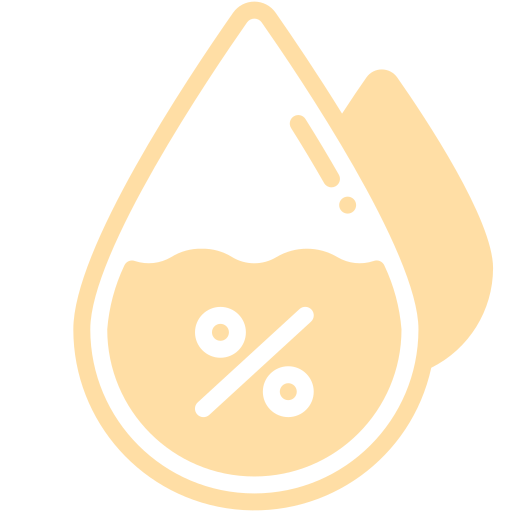
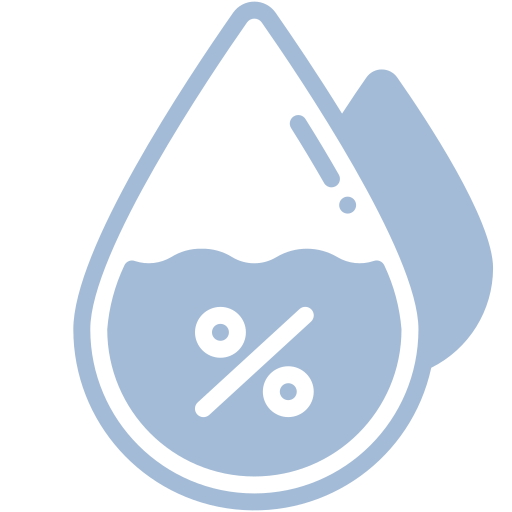
add light

diff --git a/src/App.js b/src/App.js
@@ -3,28 +3,32 @@ import './App.css';
 import { CartesianAxis, CartesianGrid, Legend, Line, LineChart, XAxis, YAxis, Tooltip, BarChart, Bar, ResponsiveContainer, ComposedChart, Area} from 'recharts';
 //import { Tooltip } from 'chart.js';
 import "../node_modules/bootstrap/dist/css/bootstrap.min.css";
+import DarkMode from "./DarkMode"
 
 class App extends React.Component {
 	
 	// Constructor
 	constructor(props) {
 		super(props);
-		this.state = {
+		this.state = { 
 			items: [],
 			DataisLoaded: false
 		};
 	}
-	
 	componentDidMount() {
-		fetch("https://pi-backend-bt5mbx1ej-conmou.vercel.app/min")
-		// fetch("http://localhost:5001/min")
-			.then((res) => res.json())
-			.then((json) => {
+		// fetch("https://pi-backend-bt5mbx1ej-conmou.vercel.app/min")
+		fetch("http://localhost:5001/min")
+			.then(res => res.json())
+			.then(json => {
 				this.setState({
 					items: json,
 					DataisLoaded: true
 				});
 			})
+			.then(e => {
+				console.log("error", e)
+			})
+			console.log(this.state)
 	}
 	
 	render() {
@@ -50,6 +54,7 @@ class App extends React.Component {
 
         return [
             <div class="container" className="App">
+				<DarkMode />
 				<div  className='showbg'>
 					<div class="row" className="content">
 						<h4>T&H</h4>
@@ -60,8 +65,9 @@ class App extends React.Component {
 							<div >
 								{/* <img src='image/heat.png'/> */}
 								<p className='Ttitle'>Temperature</p>
-								<div class='d-flex justify-content-between'>
-									<img src={require('./image/heat.png')} width="140" height="140"/>
+								<div class='d-flex justify-content-around'>
+									{/* <img src={require('./image/heat.png')} width="140" height="140"/> */}
+									<div id='Timg'></div>
 									<p className='Ttext'>{items[items.length-1].temp}</p>
 									<p className='Tunit'>°C</p>
 								</div>
@@ -69,24 +75,26 @@ class App extends React.Component {
 							<hr className="hr"/>
 							<div>
 								<p className='Htitle'>Humidity</p>
-								<div class='d-flex justify-content-between'>
-								<img src={require('./image/humidity.png')} width="140" height="140" />
+								<div class='d-flex justify-content-around'>
+									<div id='Himg'></div>
+									{/* <img src={require('./image/humidity.png')} width="140" height="140" /> */}
 									<p className='Htext'>{items[items.length-1].hunidity}</p>
 									<p className='Hunit'>％</p>
 								</div>
 							</div>
 						</div>
 						<div class="col-md-8">
-							<ResponsiveContainer width="100%" height="100%" >
-								<ComposedChart  data={items}>
-									<CartesianGrid stroke="#FFDEA5" strokeDasharray="5 5"/>
-									<XAxis dataKey="time" stroke='#FFDEA5' strokeWidth={5}/>
-									<YAxis unit='°C' yAxisId="left-axis" dataKey='temp' domain={[0, 50]} stroke='#FFDEA5' strokeWidth={5} allowDataOverflow/>
-									<YAxis unit='％' yAxisId="right-axis" dataKey='hunidity' domain={[0, 100]} orientation='right' stroke='#FFDEA5' strokeWidth={5}/>
+							<ResponsiveContainer width="100%" height="100%">
+								<ComposedChart  data={items} >
+									<CartesianGrid id='chart' strokeDasharray="5 5" strokeWidth={2}/>
+									<XAxis id='chartX' dataKey="time" />
+									<YAxis id='chartYt' unit='°C' yAxisId="left-axis" dataKey='temp' domain={[0, 50]} />
+									<YAxis id='chartYh' unit='％' yAxisId="right-axis" dataKey='hunidity' domain={[0, 100]} orientation='right'/>
 									<Tooltip separator='=' />
 									<Legend />
-									<Bar yAxisId="left-axis" dataKey="temp" barSize={20} fill="#91B493" />
-									<Line yAxisId="right-axis" type="monotone" dataKey="hunidity" stroke="#FFCA29" strokeWidth={3}/>
+									<Bar id='chartB' yAxisId="left-axis" dataKey="temp" barSize={30} fill='#ECDBC8'/>
+									{/* <Bar id='chartB' yAxisId="left-axis" dataKey="temp" barSize={30} fill='#FFDEA5'/> */}
+									<Line id='chartL' yAxisId="right-axis" type="monotone" dataKey="hunidity" strokeWidth={4}/>
 								</ComposedChart>
 							</ResponsiveContainer>
 						</div>
@@ -99,6 +107,37 @@ class App extends React.Component {
 
 export default App;
 
+// function App() {
+// 	return (
+// 	  <div className="App">
+// 		<nav>
+// 		  <a href="/">Home</a>
+// 		  <a href="/">Projects</a>
+// 		  <a href="/">About</a>
+// 		  <a href="/">Contact</a>
+// 		  <DarkMode />
+// 		</nav>
+// 		<h1>Hello World</h1>
+// 		<div id="image"></div>
+// 		<p>
+// 		  Lorem ipsum dolor sit amet, consectetur adipiscing elit. Vestibulum eget
+// 		  scelerisque neque, quis scelerisque erat. Quisque venenatis molestie
+// 		  sapien, dapibus viverra nulla hendrerit eget. Pellentesque egestas
+// 		  ultrices accumsan. Ut ac magna vel ex maximus ultricies. Nulla facilisi.
+// 		  Suspendisse gravida sem eu odio mattis ullamcorper. Curabitur feugiat
+// 		  ipsum vel vulputate ultricies.
+// 		</p>
+// 		<p>
+// 		  Praesent pulvinar faucibus risus in iaculis. Sed erat felis, pretium sit
+// 		  amet ultricies non, porta et lacus. Curabitur a urna mi. Sed eleifend
+// 		  sed erat eget viverra. Quisque sit amet purus viverra massa posuere
+// 		  congue. Suspendisse efficitur venenatis enim, id hendrerit enim ultrices
+// 		  sed. Nam sed dapibus nisi.
+// 		</p>
+// 	  </div>
+// 	)
+//   }
+//   export default App
 
 // render() {
 // 	const { DataisLoaded, items } = this.state;

diff --git a/src/App.css b/src/App.css
@@ -1,13 +1,110 @@
+:root {
+  --blue: linear-gradient(215.21deg, #50647C 12.73%, #4F4E4D 66.22%, #484037 85.32%);
+  /* --white: #EEECEA; */
+  --white: #e4e4e4;
+  --showblue: rgba(0, 0, 0, 0.36); 
+  --showwhile: rgba(250, 250, 250, 0.6);
+  --txtwhite: #8A8B8C;
+  --txtblue: #FFFFFF;
+  --Ltitle: #9F9F9F;
+  --BTtitle: #FFDEA5;
+  --BHtitle: #A3BBD6;
+  --LTChart: #ECDBC8;
+  --LHChart: #C1D9EA;
+  --BTChart: #FFDEA5;
+  --BHChart: #A3BBD6;
+}
+
+body.light {
+  --background-color: var(--white);
+  --text-color: var(--txtwhite);
+  --font-weight: 300;
+  --showbg: var(--showwhile);
+  --Ttitle: var(--Ltitle);
+  --Htitle: var(--Ltitle);
+  --Timage: url("./image/heat_light.png");
+  --Himage: url("./image/humidity_light.png");
+  --TChart: var(--txtwhite);
+  --HChart: var(--LHChart);
+  --HYChart: var(--txtwhite);
+}
+
+body.dark {
+  --background-color: var(--blue);
+  --text-color: var(--txtblue);
+  --font-weight: 500;
+  --showbg: var(--showblue);
+  --Ttitle: var(--BTtitle);
+  --Htitle: var(--BHtitle);
+  --Timage: url("./image/heat.png");
+  --Himage: url("./image/humidity.png");
+  --TChart: var(--BTChart);
+  --HChart: var(--BHChart);
+  --HYChart: var(--BHChart)
+}
+#chart{
+  stroke: var(--text-color);
+  stroke-width: 1;
+}
+
+#chartX{
+  stroke: var(--text-color);
+  fill: var(--text-color);
+  stroke-width: 1;
+}
+
+#chartYt{
+  stroke: var(--TChart);
+  fill: var(--TChart);
+  stroke-width: 1;
+}
+
+#chartYh{
+  stroke: var(--HYChart);
+  fill: var(--HYChart);
+  stroke-width: 1;
+}
+
+/* #chartB{
+  fill: var(--TChart) !important;
+} */
+
+#chartL{
+  stroke: var(--HChart);
+}
+
+#Timg{
+  width: 32%;
+  background-position: center;
+  background-repeat: no-repeat;
+  background-size: cover;
+  transition: background-image 0.7s ease-in-out;
+  background-image: var(--Timage);
+}
+
+#Himg{
+  width: 30%;
+  background-position: center;
+  background-repeat: no-repeat;
+  background-size: cover;
+  transition: background-image 0.7s ease-in-out;
+  background-image: var(--Himage);
+}
+
 .App {
   text-align: center;
   padding: 5%;
-  background: linear-gradient(215.21deg, #50647C 12.73%, #4F4E4D 66.22%, #484037 85.32%);
+  /* background: linear-gradient(215.21deg, #50647C 12.73%, #4F4E4D 66.22%, #484037 85.32%); */
   min-height: 980px;
-  /* background: linear-gradient(211.82deg, #50647C 11.79%, #3E3848 85.5%); */
+
+  transition: background 0.8s ease-in-out, color 0.8s ease-in-out;
+  background: var(--background-color);
+  color: var(--text-color);
+  font-weight: var(--font-weight);
 }
 
 .showbg{
-  background: rgba(0, 0, 0, 0.36);
+  background: var(--showbg);
   box-shadow: -26px 26px 34px rgba(3, 3, 3, 0.16);
   border-radius: 19px;
   padding: 5%;
@@ -44,46 +141,40 @@
 
 /* ----------------溫度----------------*/
 .Ttitle{
-  color: #FFDEA5;
+  color: var(--Ttitle);
   font-size: 30px;
-  font-weight: bold;
   text-align: right;
 }
 
 .Ttext{
   /* font-size: 16vmin; */
   font-size: 80px;
-  color: #FFFFFF;
+  color: var(--text-color);
   border-radius: 10px;
-  font-weight: bold;
 }
 
 .Tunit{
   color: #C2C2C2;
   font-size: 50px;
-  /* font-weight: bold; */
   padding-top: 50px;
 }
 
 /* ----------------濕度---------------- */
 .Htitle{
-  color: #FFDEA5;
+  color: var(--Htitle);
   font-size: 30px;
-  font-weight: bold;
   text-align: right;
 }
 
 .Htext{
   font-size: 80px;
-  color: #FFFFFF;
+  color: var(--text-color);
   border-radius: 10px;
-  font-weight: bold;
 }
 
 .Hunit{
   color: #C2C2C2;
   font-size: 50px;
-  /* font-weight: bold; */
   padding-top: 50px;
 }
 

diff --git a/src/DarkMode.js b/src/DarkMode.js
@@ -1,0 +1,44 @@
+import React from "react";
+import "./DarkMode.css";
+
+const DarkMode = () => {
+    let clickedClass = "clicked";
+    const body = document.body;
+    const lightTheme = "light";
+    const darkTheme = "dark";
+    let theme;
+  
+    if (localStorage) {
+      theme = localStorage.getItem("theme");
+    }
+  
+    if (theme === lightTheme || theme === darkTheme) {
+      body.classList.add(theme);
+    } else {
+      body.classList.add(lightTheme);
+    }
+  
+    const switchTheme = (e) => {
+      if (theme === darkTheme) {
+        body.classList.replace(darkTheme, lightTheme);
+        e.target.classList.remove(clickedClass);
+        localStorage.setItem("theme", "light");
+        theme = lightTheme;
+      } else {
+        body.classList.replace(lightTheme, darkTheme);
+        e.target.classList.add(clickedClass);
+        localStorage.setItem("theme", "dark");
+        theme = darkTheme;
+      }
+    };
+  
+    return (
+      <button
+        className={theme === "dark" ? clickedClass : ""}
+        id="darkMode"
+        onClick={(e) => switchTheme(e)}
+      ></button>
+    );
+  };
+  
+  export default DarkMode;

diff --git a/src/DarkMode.css b/src/DarkMode.css
@@ -1,0 +1,22 @@
+#darkMode {
+    background: transparent url("./image/moon-full.png") no-repeat center;
+    background-size: 30px 30px;
+    width: 45px;
+    height: 45px;
+    filter: grayscale(100%);
+    border: none;
+    border-radius: 50%;
+    transition: background-color 0.3s ease-in-out, filter 0.3s ease-in-out;
+  }
+  
+  #darkMode:hover,
+  #darkMode:focus {
+    filter: none;
+    background-color: black;
+    cursor: pointer;
+  }
+  
+  #darkMode.clicked {
+    filter: none !important;
+    background-color: black;
+  }

diff --git a/public/index.html b/public/index.html
@@ -32,9 +32,6 @@
   <body>
     <noscript>You need to enable JavaScript to run this app.</noscript>
     <div id="root"></div>
-    <script>
-      // window.location.reload("#id");
-    </script>
     <!--
       This HTML file is a template.
       If you open it directly in the browser, you will see an empty page.
